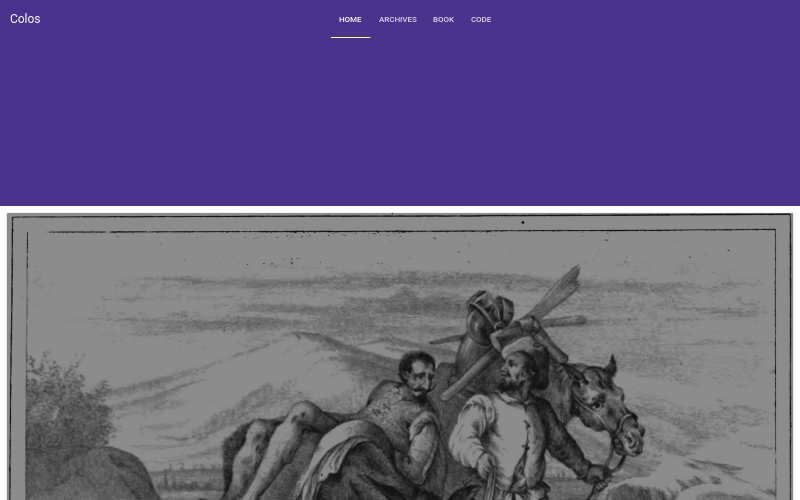
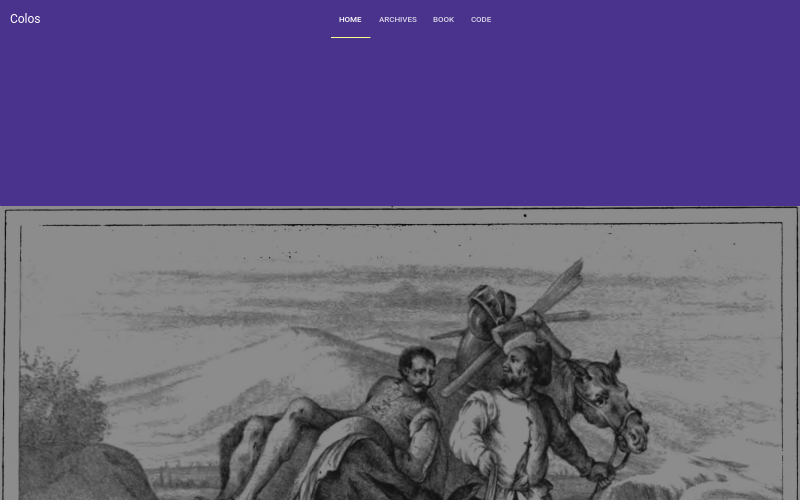
Expand card to 100% of its available space
Built from 0e6fa9b79c7c892f4f585e97c2ed0c564acd19ea.

diff --git a/source/css/main.css b/source/css/main.css
@@ -3,4 +3,4 @@ http://meyerweb.com/eric/tools/css/reset/
 v2.0 | 20110126
 License: none (public domain)
 */a,abbr,acronym,address,applet,article,aside,audio,b,big,blockquote,body,canvas,caption,center,cite,code,dd,del,details,dfn,div,dl,dt,em,embed,fieldset,figcaption,figure,footer,form,h1,h2,h3,h4,h5,h6,header,hgroup,html,i,iframe,img,ins,kbd,label,legend,li,mark,menu,nav,object,ol,output,p,pre,q,ruby,s,samp,section,small,span,strike,strong,sub,summary,sup,table,tbody,td,tfoot,th,thead,time,tr,tt,u,ul,var,video{margin:0;padding:0;border:0;font-size:100%;font:inherit;vertical-align:baseline}
-/* HTML5 display-role reset for older browsers */article,aside,details,figcaption,figure,footer,header,hgroup,menu,nav,section{display:block}body{line-height:1}ol,ul{list-style:none}blockquote,q{quotes:none}blockquote:after,blockquote:before,q:after,q:before{content:"";content:none}table{border-collapse:collapse;border-spacing:0}h1,h2,h3,h4,h5,h6{color:rgba(0,0,0,.9)}body{font-family:Roboto,sans-serif}.post-content{color:#212121;line-height:1.6;font-size:1.25em;font-weight:300}.post-content p{margin-bottom:1em}h1{font-size:2.2em}h2{font-size:2em}h3{font-size:1.8em}h4{font-size:1.6em}h5{font-size:1.4em}h6{font-size:1.2em}app-toolbar a:active,app-toolbar a:focus,app-toolbar a:hover{color:#d1c4e9}a{color:#7c4dff;text-decoration:none}a:active,a:focus,a:hover{color:#4527a0}.archives-wrap .archive-year{text-decoration:none;color:#212121}.archives-wrap .archive-year:active,.archives-wrap .archive-year:focus,.archives-wrap .archive-year:hover{color:#757575}paper-card .header .title-text.over-image{color:#fff!important}.highlight,pre{font-family:Roboto Mono,monospace;font-size:.83em;line-height:1.2em}.highlight .line,pre .line{height:1.2em}app-drawer-layout>#contentContainer:not(.narrow){margin-left:0!important}app-drawer-layout>#contentContainer:not(.narrow)+app-drawer{visibility:hidden!important}app-drawer-layout>.narrow paper-tabs{display:none!important}app-header{color:#fff;background-color:#7c4dff}app-header #backgroundFrontLayer{background-position:50%}app-header #backgroundFrontLayer:before{content:"";display:block;position:absolute;top:0;bottom:0;left:0;right:0;background:rgba(25,25,25,.5)}app-toolbar.middle{height:10em}app-toolbar.bottom{height:4em}app-toolbar a{color:#fff;text-decoration:none}app-toolbar [main-title]{position:absolute;margin-left:2em;font-size:1.6em;font-weight:300}app-toolbar [condensed-title]{max-width:0}app-toolbar paper-tabs{height:100%!important}app-toolbar paper-tabs paper-tab{text-transform:uppercase}app-toolbar paper-tabs paper-tab[link] a{padding:0 1em}.page-content .wrapper .narrow-element,.page-content .wrapper h1,.page-content .wrapper h2,.page-content .wrapper h3,.page-content .wrapper h4,.page-content .wrapper h5,.page-content .wrapper h6,.page-content .wrapper header,.page-content .wrapper p,.page-content .wrapper table{max-width:960px;width:100%;margin:0 auto}.highlight{padding:.4em 0}.highlight .gutter{width:1.3em;text-align:right}.highlight .code{padding-left:1.4em}.archives-wrap{padding:6em 0}.archives-wrap:nth-child(3n+0){background-color:#ede7f6}.archives-wrap:nth-child(3n+2){background-color:#d1c4e9}.archives-wrap h1{text-align:center;padding-bottom:.8em}paper-card{margin:.7em}paper-card iron-image:before{content:"";display:block;position:absolute;top:0;bottom:0;left:0;right:0;background:rgba(25,25,25,.5)}.highlight{background:#fafafa;border:solid #e0e0e0;border-width:1px 0}.highlight,pre{color:#212121}.highlight .string,pre .string{color:#f9a825}.highlight .comment,pre .comment{color:#727272}.highlight .keyword,pre .keyword{color:#ad1457}.highlight .built_in,pre .built_in{color:#00838f}.highlight .number,.literal,pre .number{color:#4527a0}.highlight.bash .meta,.highlight.bash .shebang,pre.bash .meta,pre.bash .shebang{color:#727272}.highlight.bash .variable,pre.bash .variable{color:#b6b6b6}.highlight.bash .title,pre.bash .title{color:#558b2f}.gutter pre{color:#757575}
+/* HTML5 display-role reset for older browsers */article,aside,details,figcaption,figure,footer,header,hgroup,menu,nav,section{display:block}body{line-height:1}ol,ul{list-style:none}blockquote,q{quotes:none}blockquote:after,blockquote:before,q:after,q:before{content:"";content:none}table{border-collapse:collapse;border-spacing:0}h1,h2,h3,h4,h5,h6{color:rgba(0,0,0,.9)}body{font-family:Roboto,sans-serif}.post-content{color:#212121;line-height:1.6;font-size:1.25em;font-weight:300}.post-content p{margin-bottom:1em}h1{font-size:2.2em}h2{font-size:2em}h3{font-size:1.8em}h4{font-size:1.6em}h5{font-size:1.4em}h6{font-size:1.2em}app-toolbar a:active,app-toolbar a:focus,app-toolbar a:hover{color:#d1c4e9}a{color:#7c4dff;text-decoration:none}a:active,a:focus,a:hover{color:#4527a0}.archives-wrap .archive-year{text-decoration:none;color:#212121}.archives-wrap .archive-year:active,.archives-wrap .archive-year:focus,.archives-wrap .archive-year:hover{color:#757575}paper-card .header .title-text.over-image{color:#fff!important}.highlight,pre{font-family:Roboto Mono,monospace;font-size:.83em;line-height:1.2em}.highlight .line,pre .line{height:1.2em}app-drawer-layout>#contentContainer:not(.narrow){margin-left:0!important}app-drawer-layout>#contentContainer:not(.narrow)+app-drawer{visibility:hidden!important}app-drawer-layout>.narrow paper-tabs{display:none!important}app-header{color:#fff;background-color:#7c4dff}app-header #backgroundFrontLayer{background-position:50%}app-header #backgroundFrontLayer:before{content:"";display:block;position:absolute;top:0;bottom:0;left:0;right:0;background:rgba(25,25,25,.5)}app-toolbar.middle{height:10em}app-toolbar.bottom{height:4em}app-toolbar a{color:#fff;text-decoration:none}app-toolbar [main-title]{position:absolute;margin-left:2em;font-size:1.6em;font-weight:300}app-toolbar [condensed-title]{max-width:0}app-toolbar paper-tabs{height:100%!important}app-toolbar paper-tabs paper-tab{text-transform:uppercase}app-toolbar paper-tabs paper-tab[link] a{padding:0 1em}.page-content .wrapper .narrow-element,.page-content .wrapper h1,.page-content .wrapper h2,.page-content .wrapper h3,.page-content .wrapper h4,.page-content .wrapper h5,.page-content .wrapper h6,.page-content .wrapper header,.page-content .wrapper p,.page-content .wrapper table{max-width:960px;width:100%;margin:0 auto}.highlight{padding:.4em 0}.highlight .gutter{width:1.3em;text-align:right}.highlight .code{padding-left:1.4em}.archives-wrap{padding:6em 0}.archives-wrap:nth-child(3n+0){background-color:#ede7f6}.archives-wrap:nth-child(3n+2){background-color:#d1c4e9}.archives-wrap h1{text-align:center;padding-bottom:.8em}colos-grid .post{padding:.7em}paper-card{width:100%}paper-card iron-image:before{content:"";display:block;position:absolute;top:0;bottom:0;left:0;right:0;background:rgba(25,25,25,.5)}.highlight{background:#fafafa;border:solid #e0e0e0;border-width:1px 0}.highlight,pre{color:#212121}.highlight .string,pre .string{color:#f9a825}.highlight .comment,pre .comment{color:#727272}.highlight .keyword,pre .keyword{color:#ad1457}.highlight .built_in,pre .built_in{color:#00838f}.highlight .number,.literal,pre .number{color:#4527a0}.highlight.bash .meta,.highlight.bash .shebang,pre.bash .meta,pre.bash .shebang{color:#727272}.highlight.bash .variable,pre.bash .variable{color:#b6b6b6}.highlight.bash .title,pre.bash .title{color:#558b2f}.gutter pre{color:#757575}
